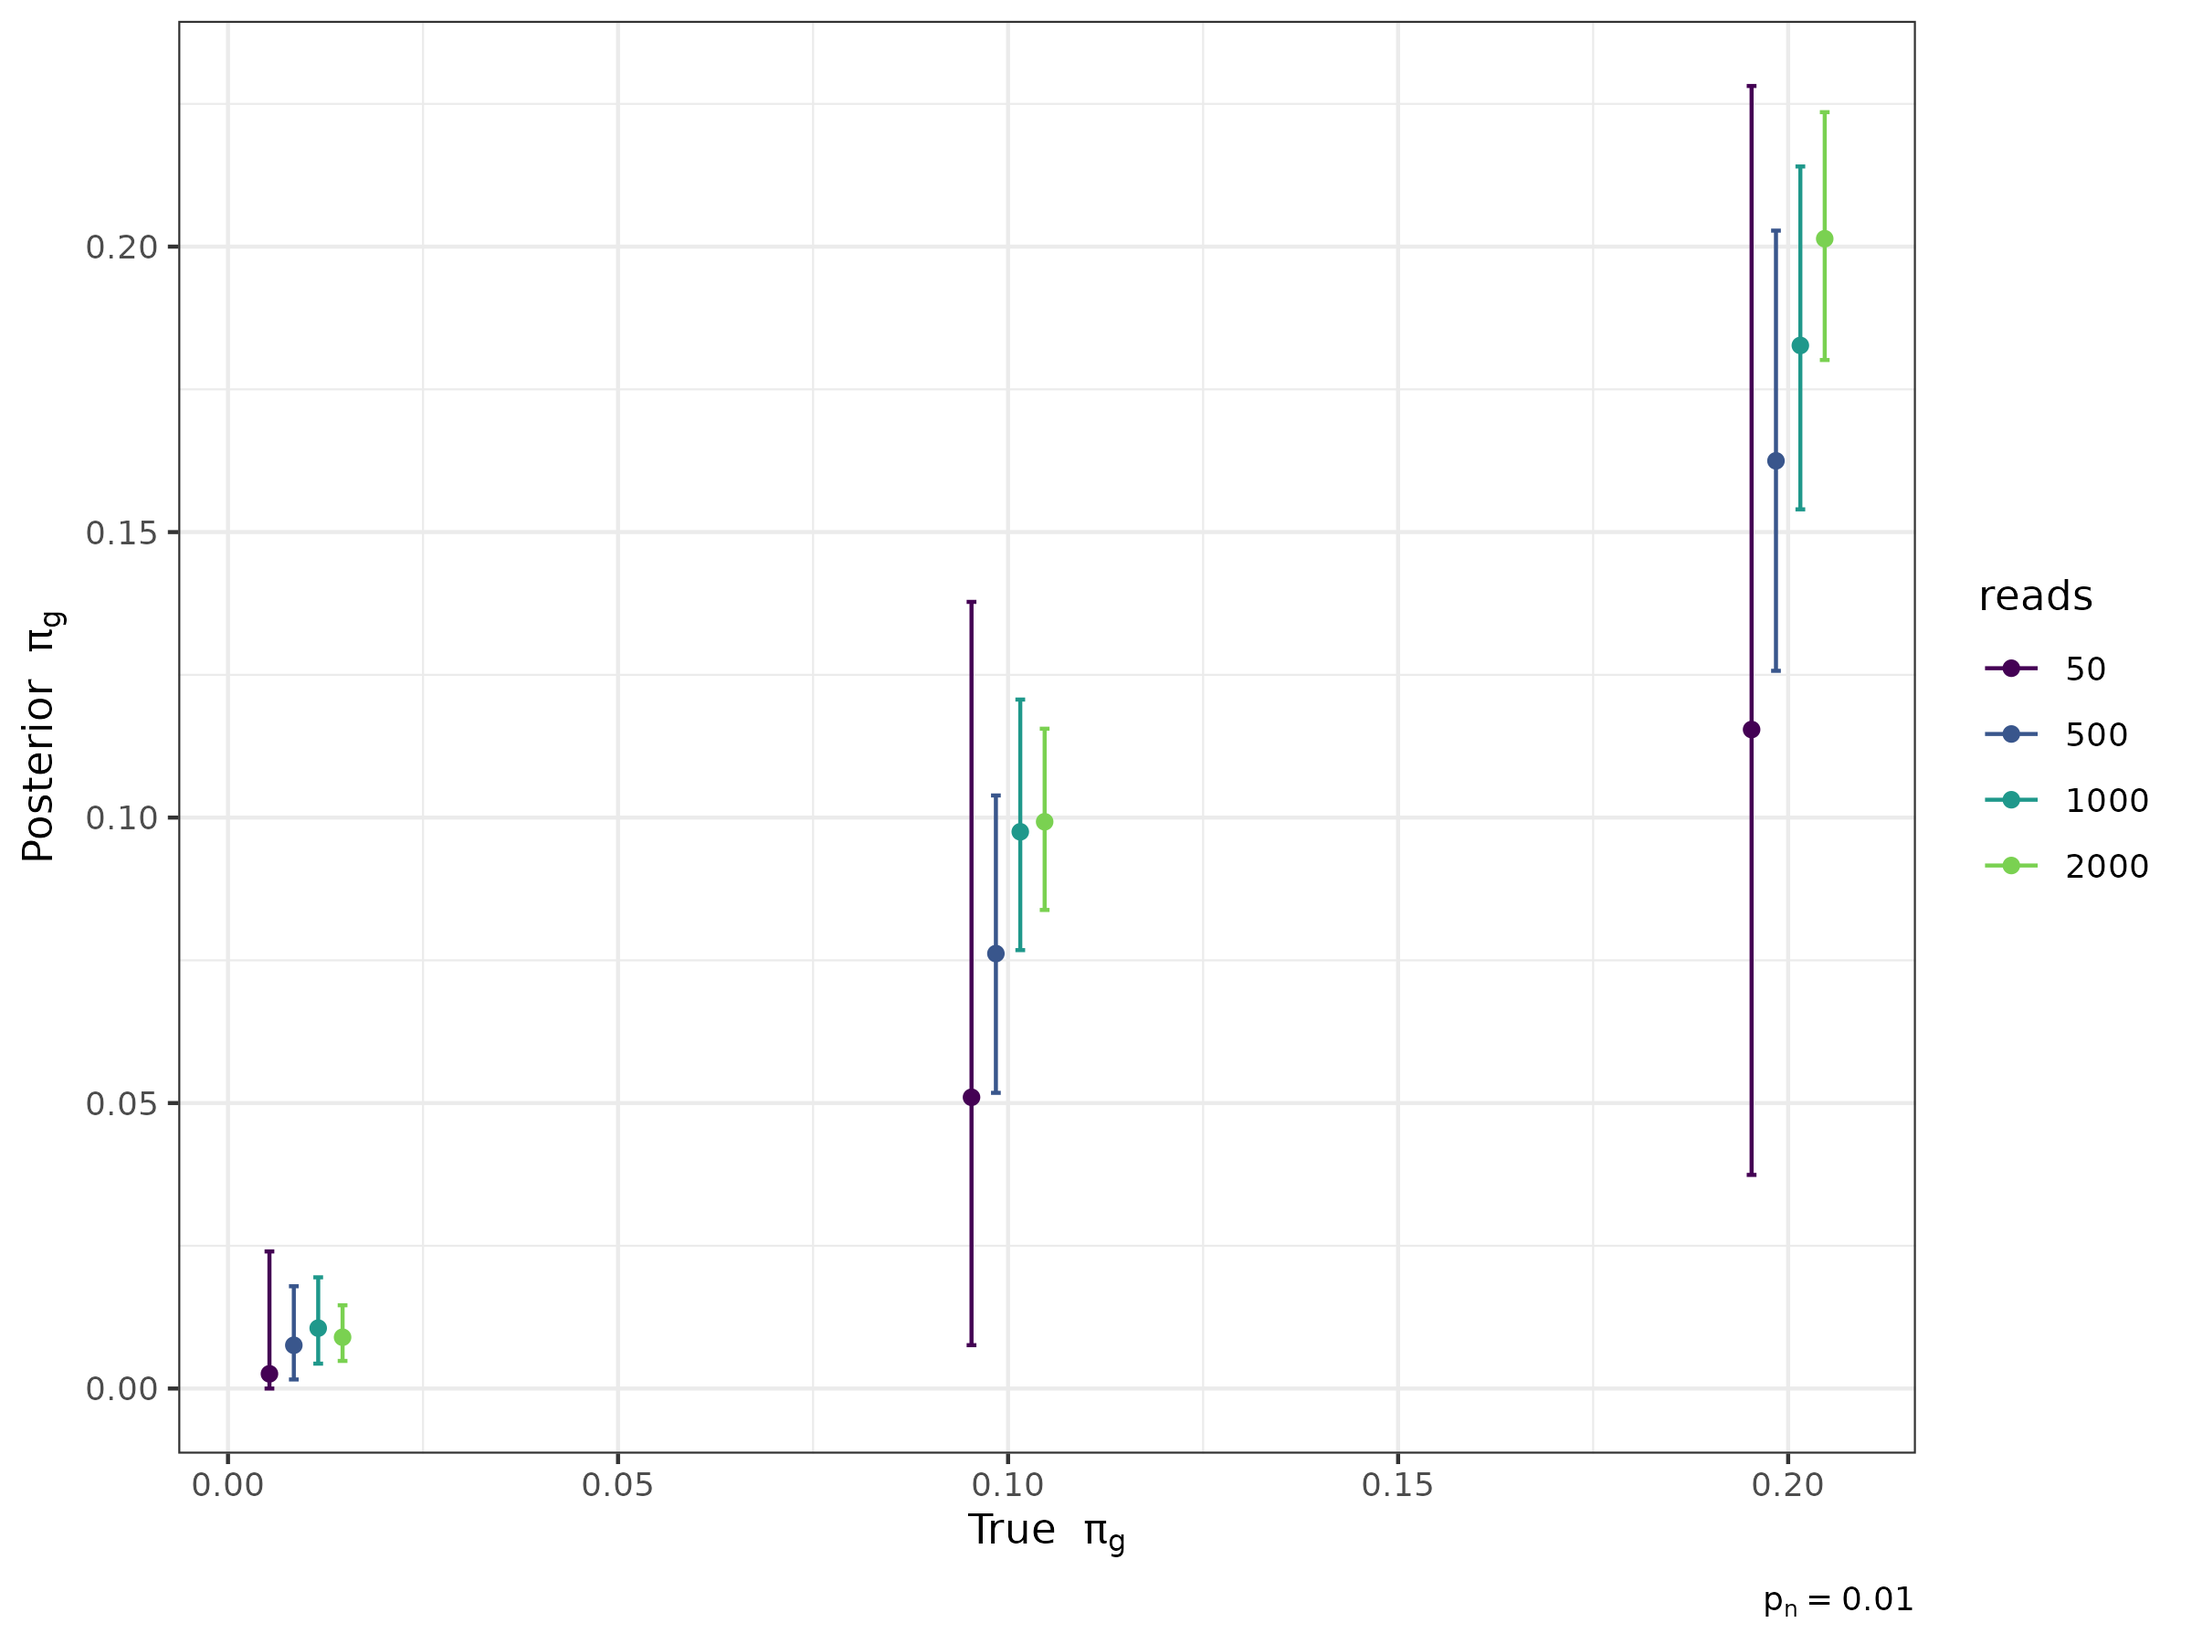
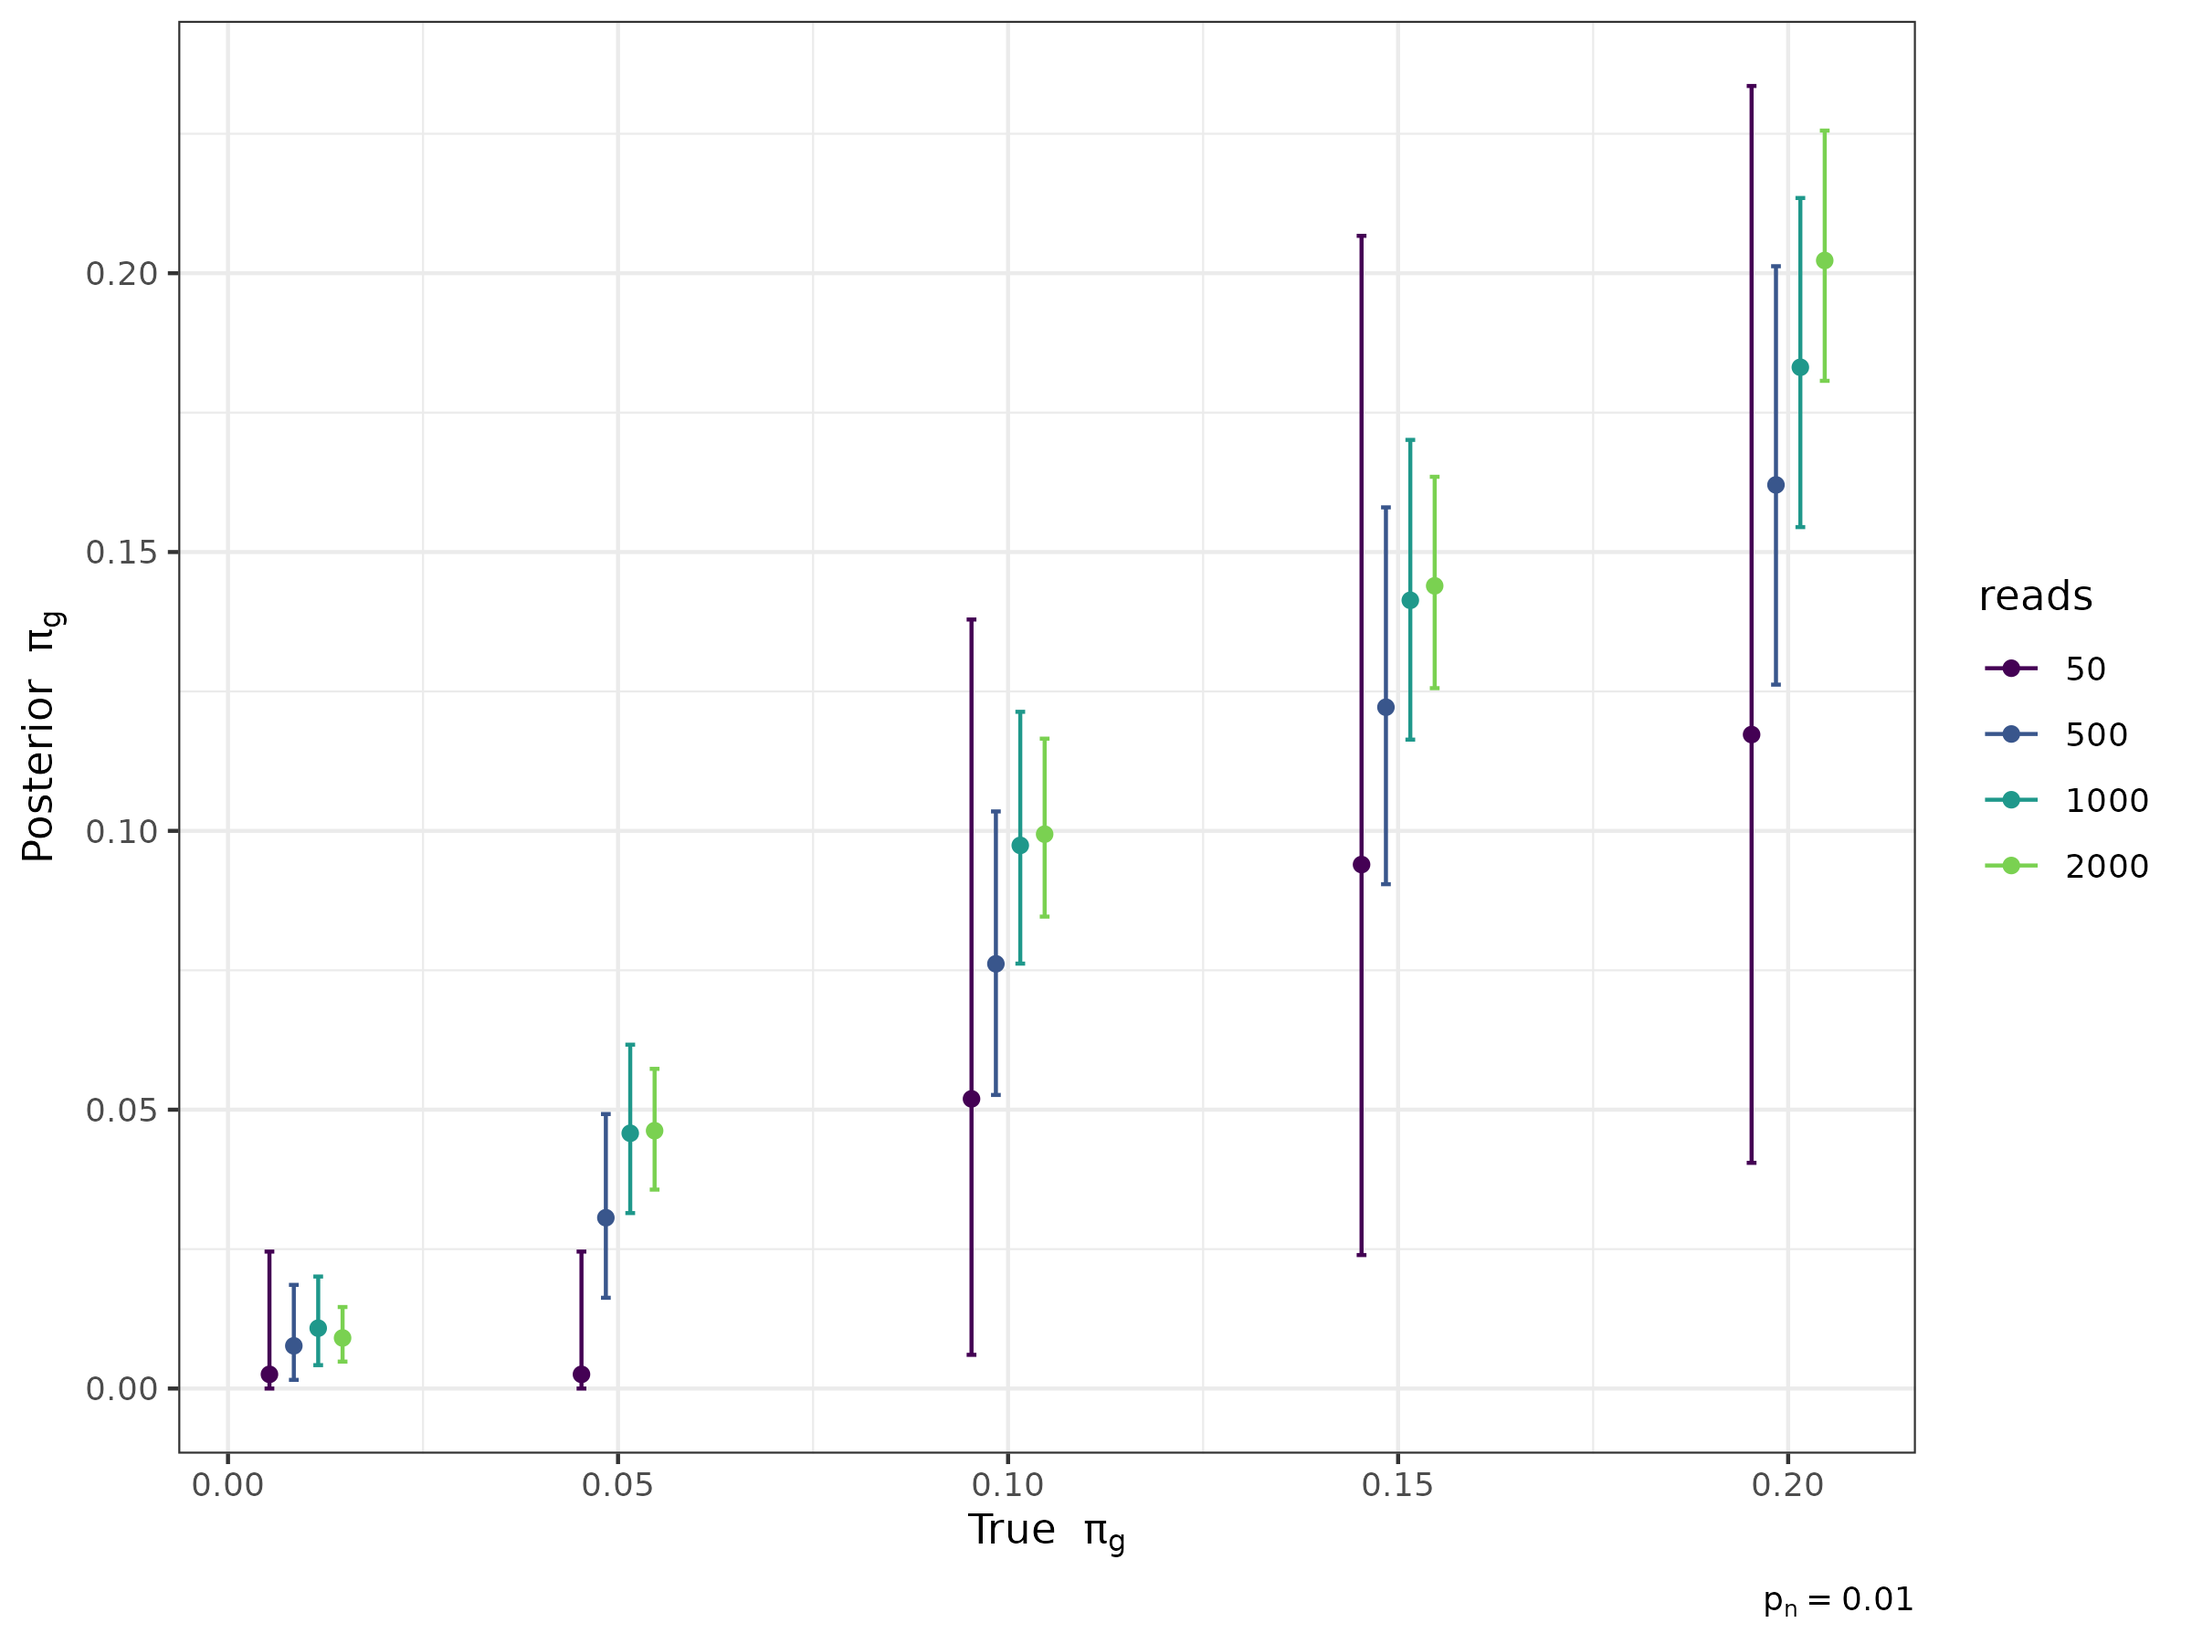
add a few more values

diff --git a/README.md b/README.md
@@ -14,12 +14,13 @@ A Gibbs sampling approach for analysis of SLAM-seq data.
         - [x] calibration curves
         - [x] adjust prior on $f$ downward
         - [x] weaken prior for low read counts—now fixed.
-            - [ ] bump up iterations
-        - [ ] eBayes: get $\pi_g$ MLE from the data
+            - [x] bump up iterations
+            - [x] add a few more values
     - [ ] (2.3) substitution rates (old and new, e.g. sequencing error and 4sU incorporation) (experimental quality)
         - [ ] accuracy heatmap f(x = old, y = new)
         - [ ] or just separate sets of calibration curves
 - [x] move to cluster
+- [ ] eBayes: get $\pi_g$ MLE from the data
 - [ ] biologically informed priors
     - if (likely activated, via gene annotation):
         - **a module to interface with GSEA**
